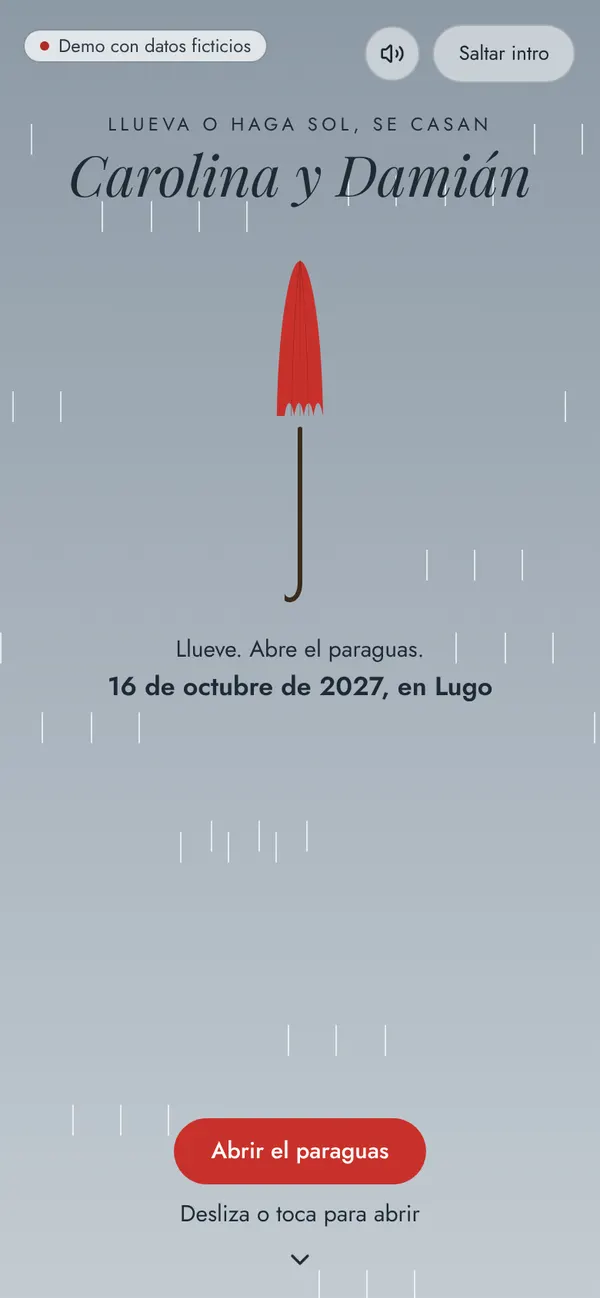
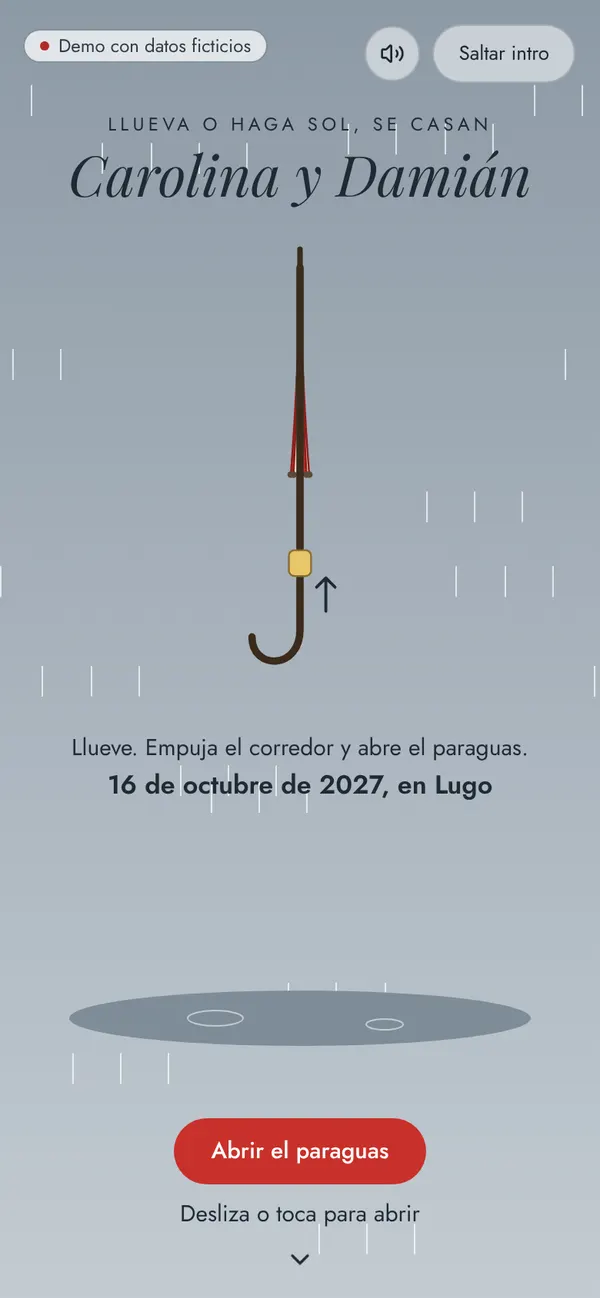
feat: Paraguas se abre empujando el corredor, en cúpula de gajos
Claude-Session: https://claude.ai/code/session_01XMPMfEBGZ9oi7tKEe9bDrZ

diff --git a/src/features/invitation/cover/concepts-new17.tsx b/src/features/invitation/cover/concepts-new17.tsx
@@ -1,6 +1,7 @@
 "use client";
 
-import { useState, type PointerEvent } from "react";
+import { animate } from "motion/react";
+import { useRef, useState, type PointerEvent } from "react";
 import type { WeddingEvent } from "@/lib/domain/types";
 import { hostNames, hostsOf } from "@/lib/event-kind";
 import { formatLongDate, isoDay } from "@/lib/format";
@@ -185,13 +186,62 @@ const DROPS = Array.from({ length: 40 }, (_, i) => ({
   dur: 0.7 + ((i * 7) % 6) / 10,
 }));
 
+/** Lo que hay que subir el dedo (en píxeles) para abrir el paraguas entero. */
+const UMBRELLA_PUSH = 130;
+/** Las varillas que se ven de lado: el ángulo de cada una alrededor del mástil. */
+const RIBS = [180, 135, 90, 45, 0];
+
 function UmbrellaCover({ event, onOpen, reduce }: ConceptProps) {
+  // `o` va de 0 (plegado) a 1 (abierto); el corredor sube por el mástil al abrirlo.
+  const [o, setO] = useState(0);
   const [open, setOpen] = useState(false);
-  const unfurl = () => {
-    if (open) return;
+  const drag = useRef<{ y: number; start: number; moved: boolean } | null>(null);
+  const click = () => {
     setOpen(true);
     playPaper(0.4);
     haptic([12, 30, 12]);
+  };
+  const unfurl = (from = o) => {
+    if (open) return;
+    if (reduce) {
+      setO(1);
+      click();
+      return;
+    }
+    animate(from, 1, {
+      duration: 0.5 * (1 - from) + 0.15,
+      ease: "easeOut",
+      onUpdate: setO,
+      onComplete: click,
+    });
+  };
+  const letGo = (from: number) => {
+    if (from >= 0.7) return unfurl(from);
+    if (reduce) return setO(0);
+    animate(from, 0, { duration: 0.35, ease: "easeIn", onUpdate: setO });
+  };
+  // Cada varilla va del pico a su punta: plegada, pegada al mástil; abierta, en cúpula.
+  const tip = { x: 100, y: 16 };
+  const ends = RIBS.map((deg) => {
+    const c = Math.cos((deg * Math.PI) / 180);
+    const depth = Math.sin((deg * Math.PI) / 180);
+    const spread = { x: 100 + 94 * c, y: 96 + 10 * depth };
+    const shut = { x: 100 + 5 * c, y: 128 };
+    return { x: shut.x + (spread.x - shut.x) * o, y: shut.y + (spread.y - shut.y) * o };
+  });
+  const runnerY = 176 - o * 64;
+  // El punto de control de cada varilla: plegada, casi recta; abierta, hacia fuera, en cúpula.
+  const ctrl = (a: { x: number; y: number }) => ({
+    x: tip.x + (a.x - tip.x) * (0.2 + 0.75 * o),
+    y: tip.y + (a.y - tip.y) * (0.55 - 0.45 * o),
+  });
+  const panel = (a: { x: number; y: number }, b: { x: number; y: number }) => {
+    // El borde de cada gajo se combea hacia arriba entre varilla y varilla.
+    const ca = ctrl(a);
+    const cb = ctrl(b);
+    const mx = (a.x + b.x) / 2;
+    const my = (a.y + b.y) / 2 - 9 * o;
+    return `M${tip.x} ${tip.y}Q${ca.x} ${ca.y} ${a.x} ${a.y}Q${mx} ${my} ${b.x} ${b.y}Q${cb.x} ${cb.y} ${tip.x} ${tip.y}Z`;
   };
 
   return (
@@ -206,9 +256,9 @@ function UmbrellaCover({ event, onOpen, reduce }: ConceptProps) {
         }}
       />
       {!open && !reduce
-        ? DROPS.map((d, i) => (
+        ? DROPS.map((d, n) => (
             <span
-              key={i}
+              key={n}
               aria-hidden
               className="absolute top-0 block h-5 w-px animate-[rain-fall_linear_infinite] bg-white/70"
               style={{
@@ -219,6 +269,16 @@ function UmbrellaCover({ event, onOpen, reduce }: ConceptProps) {
             />
           ))
         : null}
+      {/* El charco del suelo: con lluvia tiene ondas; con sol, refleja el cielo. */}
+      <svg aria-hidden viewBox="0 0 390 60" className="absolute inset-x-0 bottom-[18%] w-full">
+        <ellipse cx="195" cy="30" rx="150" ry="18" fill={open ? "#b9d9ea" : "#7f8c97"} />
+        {!open ? (
+          <>
+            <ellipse cx="140" cy="30" rx="18" ry="5" fill="none" stroke="#c3cbd2" />
+            <ellipse cx="250" cy="34" rx="12" ry="3.5" fill="none" stroke="#c3cbd2" />
+          </>
+        ) : null}
+      </svg>
       <div className="relative mx-auto flex h-full w-full max-w-[24rem] flex-col items-center px-6 pt-[max(4.5rem,env(safe-area-inset-top))] pb-[max(0.75rem,env(safe-area-inset-bottom))] text-center text-[#1f2a33]">
         <p className="text-[0.75rem] tracking-[0.22em] uppercase">Llueva o haga sol, se casan</p>
         <h1
@@ -230,47 +290,90 @@ function UmbrellaCover({ event, onOpen, reduce }: ConceptProps) {
         >
           {names(event)}
         </h1>
+        {/* El paraguas: se empuja el corredor hacia arriba por el mástil y se abre. */}
         <div
           data-paraguas={open ? "abierto" : "cerrado"}
           onPointerDown={(e) => {
             stop(e);
-            unfurl();
+            if (open) return;
+            drag.current = { y: e.clientY, start: o, moved: false };
+            e.currentTarget.setPointerCapture(e.pointerId);
           }}
-          className="relative mt-8 flex h-60 w-full cursor-pointer flex-col items-center"
+          onPointerMove={(e) => {
+            const d = drag.current;
+            if (!d) return;
+            e.stopPropagation();
+            const dy = d.y - e.clientY;
+            if (Math.abs(dy) > 4) d.moved = true;
+            setO(Math.min(1, Math.max(0, d.start + dy / UMBRELLA_PUSH)));
+          }}
+          onPointerUp={() => {
+            const d = drag.current;
+            drag.current = null;
+            if (!d) return;
+            if (!d.moved) return unfurl();
+            letGo(o);
+          }}
+          onPointerCancel={() => {
+            if (drag.current) letGo(o);
+            drag.current = null;
+          }}
+          className="relative mt-6 w-60 cursor-grab touch-none active:cursor-grabbing"
         >
-          {/* La tela: plegada en un huso o abierta en cúpula. */}
-          <svg
-            viewBox="0 0 200 100"
-            aria-hidden
-            className="w-56 origin-bottom transition-transform duration-500"
-            style={{
-              transform: open ? "none" : "scaleX(0.14)",
-              transitionDuration: reduce ? "0ms" : undefined,
-            }}
-          >
+          <svg viewBox="0 0 200 260" aria-hidden className="w-full overflow-visible">
+            {/* Los gajos, alternando rojo y crudo, y las varillas por encima. */}
+            {ends.slice(0, -1).map((a, n) => (
+              <path
+                key={n}
+                d={panel(a, ends[n + 1]!)}
+                fill={n % 2 ? "#f3e7d3" : "#c8312b"}
+                stroke="#8a1f1a"
+                strokeWidth="1"
+                strokeLinejoin="round"
+              />
+            ))}
+            {/* Las varillas del armazón y los tirantes que las empujan desde el corredor. */}
+            {ends.map((e, n) => (
+              <g key={n} stroke="#5a4a3a" strokeWidth="1.2" fill="none">
+                <path
+                  d={`M100 ${runnerY}L${0.25 * tip.x + 0.5 * ctrl(e).x + 0.25 * e.x} ${0.25 * tip.y + 0.5 * ctrl(e).y + 0.25 * e.y}`}
+                />
+                <circle cx={e.x} cy={e.y} r="1.8" fill="#5a4a3a" stroke="none" />
+              </g>
+            ))}
+            <path d="M100 6v12" stroke="#3a2a1c" strokeWidth="3" strokeLinecap="round" />
             <path
-              d="M4 96C10 40 60 6 100 6s90 34 96 90c-14-10-30-10-40 0-12-10-30-10-40 0-12-10-28-10-40 0-12-10-30-10-40 0z"
-              fill="#c8312b"
-            />
-            <path
-              d="M100 6c-20 20-30 50-36 90M100 6c20 20 30 50 36 90M100 6v90"
-              stroke="#8a1f1a"
-              strokeWidth="1.5"
-              fill="none"
-            />
-          </svg>
-          <svg viewBox="0 0 20 120" aria-hidden className="h-32 w-5">
-            <path
-              d="M10 0v100c0 14-12 14-12 4"
+              d="M100 16v196c0 22-26 22-26 4"
               stroke="#3a2a1c"
-              strokeWidth="3"
+              strokeWidth="4"
               fill="none"
               strokeLinecap="round"
             />
+            {/* El corredor: la pieza que se empuja con el dedo. */}
+            <rect
+              x="94"
+              y={runnerY - 7}
+              width="12"
+              height="14"
+              rx="3"
+              fill="#e8c66a"
+              stroke="#8a6d32"
+            />
+            {!open ? (
+              <path
+                d={`M114 ${runnerY + 26}v-18m-5 5 5-5 5 5`}
+                stroke="#1f2a33"
+                strokeWidth="1.6"
+                fill="none"
+                strokeLinecap="round"
+                strokeLinejoin="round"
+                opacity={1 - o}
+              />
+            ) : null}
           </svg>
         </div>
         <After reduce={reduce} className="mt-2 text-[0.9375rem]">
-          {open ? "¡Ya no llueve! Nos vemos el" : "Llueve. Abre el paraguas."}
+          {open ? "¡Ya no llueve! Nos vemos el" : "Llueve. Empuja el corredor y abre el paraguas."}
           <span className="block text-[1.0625rem] font-semibold">
             <time dateTime={isoDay(event.date)}>{formatLongDate(event.date)}</time>, en {event.city}
           </span>
@@ -279,7 +382,7 @@ function UmbrellaCover({ event, onOpen, reduce }: ConceptProps) {
           <button
             type="button"
             onPointerDown={stop}
-            onClick={unfurl}
+            onClick={() => unfurl()}
             disabled={open}
             className="mt-3 rounded-full bg-[#c8312b] px-6 py-2.5 text-[0.9375rem] font-medium text-white disabled:opacity-70"
           >

diff --git a/tests/e2e/conceptos.spec.ts b/tests/e2e/conceptos.spec.ts
@@ -906,6 +906,19 @@ test.describe("plantillas de concepto (segunda tanda)", () => {
     await expect(stage.getByText(/Ya no llueve/)).toBeVisible();
   });
 
+  test("paraguas: también se abre empujando el corredor hacia arriba", async ({ page }) => {
+    await page.goto("/i/familia-garcia?plantilla=paraguas");
+    const umbrella = cover(page, "paraguas").locator("[data-paraguas]");
+    const box = (await umbrella.boundingBox())!;
+    const x = box.x + box.width / 2;
+    const y = box.y + box.height * 0.6;
+    await page.mouse.move(x, y);
+    await page.mouse.down();
+    await page.mouse.move(x, y - 150, { steps: 12 });
+    await page.mouse.up();
+    await expect(umbrella).toHaveAttribute("data-paraguas", "abierto");
+  });
+
   test("cascanueces: parte la nuez", async ({ page }) => {
     await page.goto("/i/familia-garcia?plantilla=cascanueces");
     const stage = cover(page, "cascanueces");

diff --git a/docs/DECISIONS.md b/docs/DECISIONS.md
@@ -1641,7 +1641,7 @@ olivo.
   doce cuñas en espejo cuyos cristales se mueven con cada grado de giro del aro de latón y, en el
   tercer giro, se juntan en una flor. **Buzón**: la carta se arrastra hasta la ranura, se cuela y la
   respuesta asoma por la misma ranura; el rótulo «Correos» (marca real) pasa a «Cartas» con una
-  trompa dibujada a mano. Pruebas E2E nuevas para cada gesto.
+  trompa dibujada a mano. **Paraguas**: se empuja el corredor por el mástil y los gajos, rojos y crudos, se abren en cúpula con sus varillas y tirantes; abajo, un charco con ondas que deja de tenerlas al salir el sol. Pruebas E2E nuevas para cada gesto.
 
 ## Pendiente para próximas fases
 
